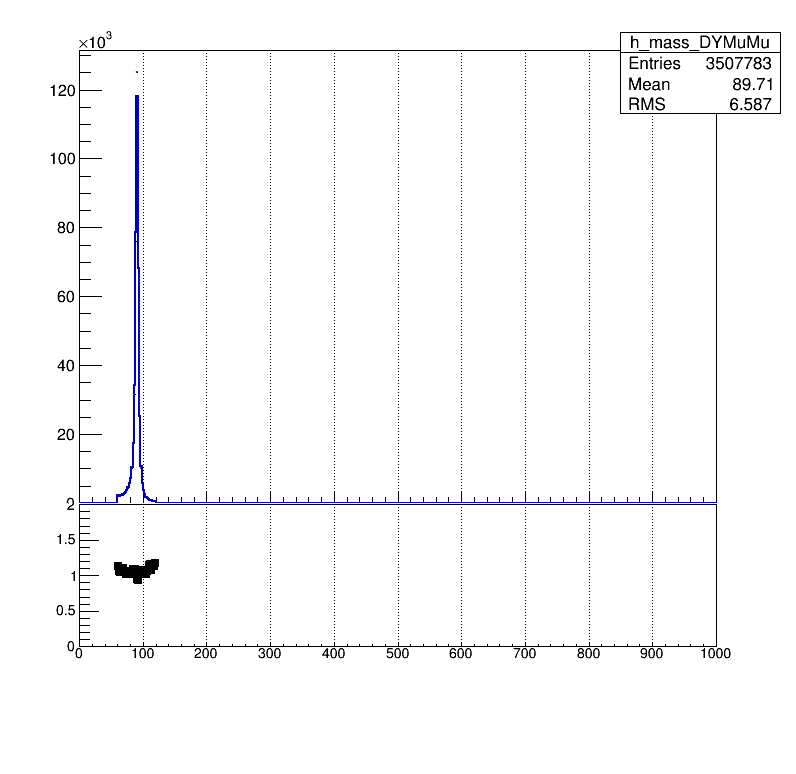
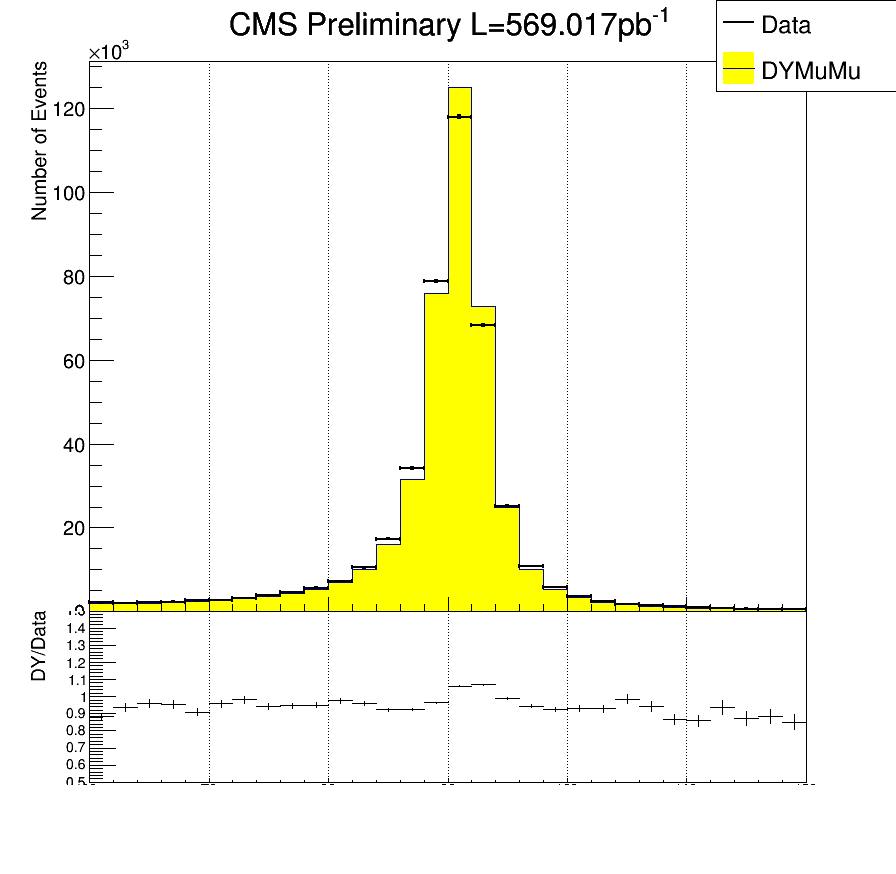
dimuon plots

diff --git a/MuonPlots/ratioplot.C b/MuonPlots/ratioplot.C
@@ -29,10 +29,12 @@ void ratioplot () {
 	//Cut.push_back("trackerLayers");
 	//Cut.push_back("trkiso");
 
-	vector<TString> Type;
-	Type.push_back("Pt_");
-	Type.push_back("eta");
-	Type.push_back("mass");
+	vector<TString> Type;	vector<TString> XDim;								vector<TString> YDim;
+	Type.push_back("Pt");	XDim.push_back("p_{T}[GeV/c]");			YDim.push_back("Number of Muons");
+	Type.push_back("eta");	XDim.push_back("eta");						YDim.push_back("Number of Muons");
+	Type.push_back("mass");	XDim.push_back("M_{{mumu}[GeV/c^{2}]");	YDim.push_back("Number of Events");
+	Type.push_back("diPt");	XDim.push_back("Dimuon p_{T}[GeV/c]");				YDim.push_back("Number of Events");
+	Type.push_back("diRap");XDim.push_back("Dimuon Rapidity");					YDim.push_back("Number of Events");
 
 	//Double_t Factor = 569.0171*2008.4*3/4.5275/10; // Wrong value;
 	Double_t Factor = ((569.0171*2008.4)*3)/(4.5275*(1e11));
@@ -40,21 +42,22 @@ void ratioplot () {
 	TFile *f1;
 	TH1D *h1, *h2;
 	TH1F *h3;
-	TCanvas *c = new TCanvas("c", "canvas", 800,800);
-	TPad *pad1 = new TPad("pad1", "pad1", 0, 0.3, 1, 1.0);
-	TPad *pad2 = new TPad("pad2", "pad2", 0, 0.05, 1, 0.3);
+	TCanvas *c;
+	TPad *pad1;
+	TPad *pad2;
+	TLegend *leg;
 	TImage *img = TImage::Create();
 
 	//Int_t i = 0;
-	//Int_t j = 1;
-	//for (Int_t i = 0; i < 10; i++)
+	Int_t j = 4;
+	// for (Int_t i = 0; i < 10; i++)
 	{
 		f1 = new TFile ("MuonTightM60to120.root");
 
-		for (Int_t j = 0; j < 3; j++)
+		// for (Int_t j = 0; j < 4; j++)
 		{
 
-			c = new TCanvas("c", "canvas", 800, 800);
+			c = new TCanvas("c", "canvas", 900, 900);
 			cout << Type[j] << " drawing.." <<  endl;
 
 			h1 = (TH1D *)f1->Get("h_"+Type[j]+"_Data");
@@ -73,11 +76,15 @@ void ratioplot () {
 			pad1->SetGridx();         // Vertical grid
 			pad1->Draw();             // Draw the upper pad: pad1
 			pad1->cd();               // pad1 becomes the current pad
-			//h1->SetStats(0);          // No statistics on upper plot
+			pad1->SetTitle();
+			h2->SetStats(0);
+			h1->SetStats(0); // No statistics on upper plot
 
 			cout << "h1, h2 before draw" << endl;
-			h2->Draw();               // Draw h1
-			h1->Draw("same");         // Draw h2 on top of h1
+
+			//h1->Draw("E1");    // Draw Data
+			h2->Draw("hist"); // Draw DYMuMu
+			h1->Draw("E1same");
 
 			cout << "h1, h2 draw.." << endl;
 			// Do not draw the Y axis label on the upper plot and redraw a small
@@ -89,44 +96,61 @@ void ratioplot () {
 			//axis->SetLabelSize(15);
 			//axis->Draw();
 
+			leg = new TLegend (.80, .85, 1, 1);
+			leg->AddEntry(h1, "Data");
+			leg->AddEntry(h2, "DYMuMu");
+			leg->Draw();
+
 			// lower plot will be in pad
 			c->cd();          // Go back to the main canvas before defining pad2
-			pad2 = new TPad("pad2", "pad2", 0, 0.05, 1, 0.3);
-			pad2->SetTopMargin(0.01);
-			pad2->SetBottomMargin(0.2);
+			pad2 = new TPad("pad2", "pad2", 0, 0.1, 1, 0.3);
+			pad2->SetTopMargin(0);
+			pad2->SetBottomMargin(0.02);
 			pad2->SetGridx(); // vertical grid
 			pad2->Draw();
 			pad2->cd();       // pad2 becomes the current pad
 
 			// Define the ratio plot
-			h3 = (TH1F*)h1->Clone("h3");
+			h3 = (TH1F*)h2->Clone("h3");
 			h3->SetLineColor(kBlack);
-			h3->SetMinimum(0);  // Define Y ..
-			h3->SetMaximum(2); // .. range
+			h3->SetMinimum(0.5);  // Define Y ..
+			h3->SetMaximum(1.5); // .. range
 			h3->Sumw2();
 			h3->SetStats(0);      // No statistics on lower plot
-			h3->Divide(h2);
-			h3->SetMarkerStyle(21);
+			h3->Divide(h1);
+			// h3->SetMarkerStyle(21);
 			h3->Draw("ep");       // Draw the ratio plot
 
 			// h1 settings
-			h1->SetLineColor(kBlue+1);
+			h1->SetLineColor(kBlack);
+			h1->SetTitle("CMS Preliminary L=569.017pb^{-1}");
+			h2->SetTitle("CMS Preliminary L=569.017pb^{-1}");
+			// h1->SetMarkerStyle(21);
 			h1->SetLineWidth(2);
 
+			if (Type[j] == "mass")
+			{
+				h1->GetXaxis()->SetRangeUser(60,120);
+				h2->GetXaxis()->SetRangeUser(60,120);
+				h3->GetXaxis()->SetRangeUser(60,120);
+			}
+
 			// Y axis h1 plot settings
+			h1->GetYaxis()->SetTitle(YDim[j]);
+			h2->GetYaxis()->SetTitle(YDim[j]);
 			h1->GetYaxis()->SetTitleSize(20);
 			h1->GetYaxis()->SetTitleFont(43);
 			h1->GetYaxis()->SetTitleOffset(1.55);
 
 			// h2 settings
-			h2->SetLineColor(kRed);
-			h2->SetLineWidth(2);
+			h2->SetFillColor(kYellow);
+			h2->SetLineWidth(0);
 
 			// Ratio plot (h3) settings
 			h3->SetTitle(""); // Remove the ratio title
 
 			// Y axis ratio plot settings
-			//h3->GetYaxis()->SetTitle("ratio h1/h2 ");
+			h3->GetYaxis()->SetTitle("DY/Data");
 			h3->GetYaxis()->SetNdivisions(505);
 			h3->GetYaxis()->SetTitleSize(20);
 			h3->GetYaxis()->SetTitleFont(43);
@@ -135,29 +159,31 @@ void ratioplot () {
 			h3->GetYaxis()->SetLabelSize(15);
 
 			// X axis ratio plot settings
+			h3->GetXaxis()->SetTitle(XDim[j]);
 			h3->GetXaxis()->SetTitleSize(20);
 			h3->GetXaxis()->SetTitleFont(43);
 			h3->GetXaxis()->SetTitleOffset(4.);
 			h3->GetXaxis()->SetLabelFont(43); // Absolute font size in pixel (precision 3)
 			h3->GetXaxis()->SetLabelSize(15);
 
-			//TImage *img = TImage::Create();
 
-			// img->FromPad(c);
-			// img->WriteImage(Type[j]+"_TightM60to120.png");
 
+			img->FromPad(c);
+			img->WriteImage("./pictures/TightM60to120"+Type[j]+".png");
 			cout << Type[j] << "_TightM60to120.png output" << endl;
-			//delete h3;
-			//delete h2;
-			//delete h1;
-			//delete pad1;
-			//delete pad2;
-			delete c;
 
+			// delete h3;
+			// delete h2;
+			// delete h1;
+			// delete pad1;
+			// delete pad2;
+			// delete c;
+
+			// f1->Close();
 
 			//delete f1;
 
-			cout << "file closed" << endl;
+			// cout << "file closed" << endl;
 		} // iteration Type end
 	} // iteration Cut end
 }

diff --git a/MuonPlots/ControlPlots.h b/MuonPlots/ControlPlots.h
@@ -28,7 +28,7 @@ public:
 
 	TH1D *h_lead_Pt;
 	TH1D *h_sub_Pt;
-	
+
 	TH1D *h_lead_eta;
 	TH1D *h_sub_eta;
 
@@ -52,7 +52,7 @@ public:
 	 *TH1D *h_Pt_M90to110;
 	 *TH1D *h_Pt_M110toInf;
 	 */
-	TH1D *h_Pt_M60to120;
+	// TH1D *h_Pt_M60to120;
 
 	TH1D *h_Angle;
 
@@ -75,7 +75,7 @@ public:
 
 		h_lead_Pt = new TH1D("h_lead_Pt_"+Type, "", 250, 0, 500); Histo.push_back( h_lead_Pt );
 		h_sub_Pt = new TH1D("h_sub_Pt_"+Type, "", 250, 0, 500); Histo.push_back( h_sub_Pt );
-		
+
 		h_lead_eta = new TH1D("h_lead_eta_"+Type, "", 60, -3, 3); Histo.push_back( h_lead_eta );
 		h_sub_eta = new TH1D("h_sub_eta_"+Type, "", 60, -3, 3); Histo.push_back( h_sub_eta );
 
@@ -99,7 +99,7 @@ public:
 		 *h_Pt_M90to110 = new TH1D("h_Pt_M90to110_"+Type, "", 250, 0, 500); Histo.push_back( h_Pt_M90to110 );
 		 *h_Pt_M110toInf = new TH1D("h_Pt_M110toInf_"+Type, "", 250, 0, 500); Histo.push_back( h_Pt_M110toInf );
 		 */
-		h_Pt_M60to120 = new TH1D("h_Pt_M60to120_"+Type, "", 250, 0, 500); Histo.push_back( h_Pt_M60to120 );
+		// h_Pt_M60to120 = new TH1D("h_Pt_M60to120_"+Type, "", 250, 0, 500); Histo.push_back( h_Pt_M60to120 );
 
 		h_Angle = new TH1D("h_Angle_"+Type, "", 80, -4, 4); Histo.push_back( h_Angle );
 
@@ -213,16 +213,16 @@ public:
 			//h_Pt_M110toInf->Fill( recolep1.Pt, GenWeight );
 			//h_Pt_M110toInf->Fill( recolep2.Pt, GenWeight );
 		//}
-		if (reco_M > 60 && reco_M < 120)
-		{
-			h_Pt_M60to120->Fill( recolep1.Pt, GenWeight );
-			h_Pt_M60to120->Fill( recolep2.Pt, GenWeight );
-		}
+		// if (reco_M > 60 && reco_M < 120)
+		// {
+		// 	h_Pt_M60to120->Fill( recolep1.Pt, GenWeight );
+		// 	h_Pt_M60to120->Fill( recolep2.Pt, GenWeight );
+		// }
 
 
 		//Angle between two muons
 		h_Angle->Fill( reco_v1.Angle( reco_v2.Vect() ), GenWeight );
-		
+
 		//Trigger Matched objects
 		if( recolep1.isTrigMatched(ntuple, HLT) )
 		{
@@ -256,7 +256,7 @@ public:
 	 *{
 	 *    //pt, eta, phi
 	 *    h_Pt->Fill( recolep1.Pt, GenWeight );
-	 *    
+	 *
 	 *}
 	 */
 
@@ -267,41 +267,3 @@ public:
 			Histo[i_hist]->Write();
 	}
 };
-
-
-
-
-
-
-
-
-
-
-
-
-
-
-
-
-
-
-
-
-
-
-
-
-
-
-
-
-
-
-
-
-
-
-
-
-
-

diff --git a/ROOT_guide/tutorials/hist/hstack.C b/ROOT_guide/tutorials/hist/hstack.C
@@ -2,7 +2,7 @@ TCanvas *hstack() {
 // Example of stacked histograms: class THStack
 //
 //  Author: Rene Brun
-   
+
    THStack *hs = new THStack("hs","Stacked 1D histograms");
    //create three 1-d histograms
    TH1F *h1st = new TH1F("h1st","test hstack",100,-4,4);
@@ -23,14 +23,14 @@ TCanvas *hstack() {
    h3st->SetMarkerStyle(21);
    h3st->SetMarkerColor(kGreen);
    hs->Add(h3st);
-   
+
    TCanvas *cst = new TCanvas("cst","stacked hists",10,10,700,700);
    cst->SetFillColor(41);
    cst->Divide(2,2);
    // in top left pad, draw the stack with defaults
    cst->cd(1);
    hs->Draw();
-   // in top right pad, draw the stack in non-stack mode 
+   // in top right pad, draw the stack in non-stack mode
    // and errors option
    cst->cd(2);
    gPad->SetGrid();
@@ -48,14 +48,14 @@ TCanvas *hstack() {
    THStack *a = new THStack("a","Stacked 2D histograms");
    TF2 *f1 = new TF2("f1",
       "xygaus + xygaus(5) + xylandau(10)",-4,4,-4,4);
-   Double_t params[] = {130,-1.4,1.8,1.5,1, 150,2,0.5,-2,0.5, 
+   Double_t params[] = {130,-1.4,1.8,1.5,1, 150,2,0.5,-2,0.5,
       3600,-2,0.7,-3,0.3};
    f1->SetParameters(params);
    TH2F *h2sta = new TH2F("h2sta","h2sta",20,-4,4,20,-4,4);
    h2sta->SetFillColor(38);
    h2sta->FillRandom("f1",4000);
    TF2 *f2 = new TF2("f2","xygaus + xygaus(5)",-4,4,-4,4);
-   Double_t params[] = {100,-1.4,1.9,1.1,2, 80,2,0.7,-2,0.5};
+  //  Double_t params[] = {100,-1.4,1.9,1.1,2, 80,2,0.7,-2,0.5};
    f2->SetParameters(params);
    TH2F *h2stb = new TH2F("h2stb","h2stb",20,-4,4,20,-4,4);
    h2stb->SetFillColor(46);
